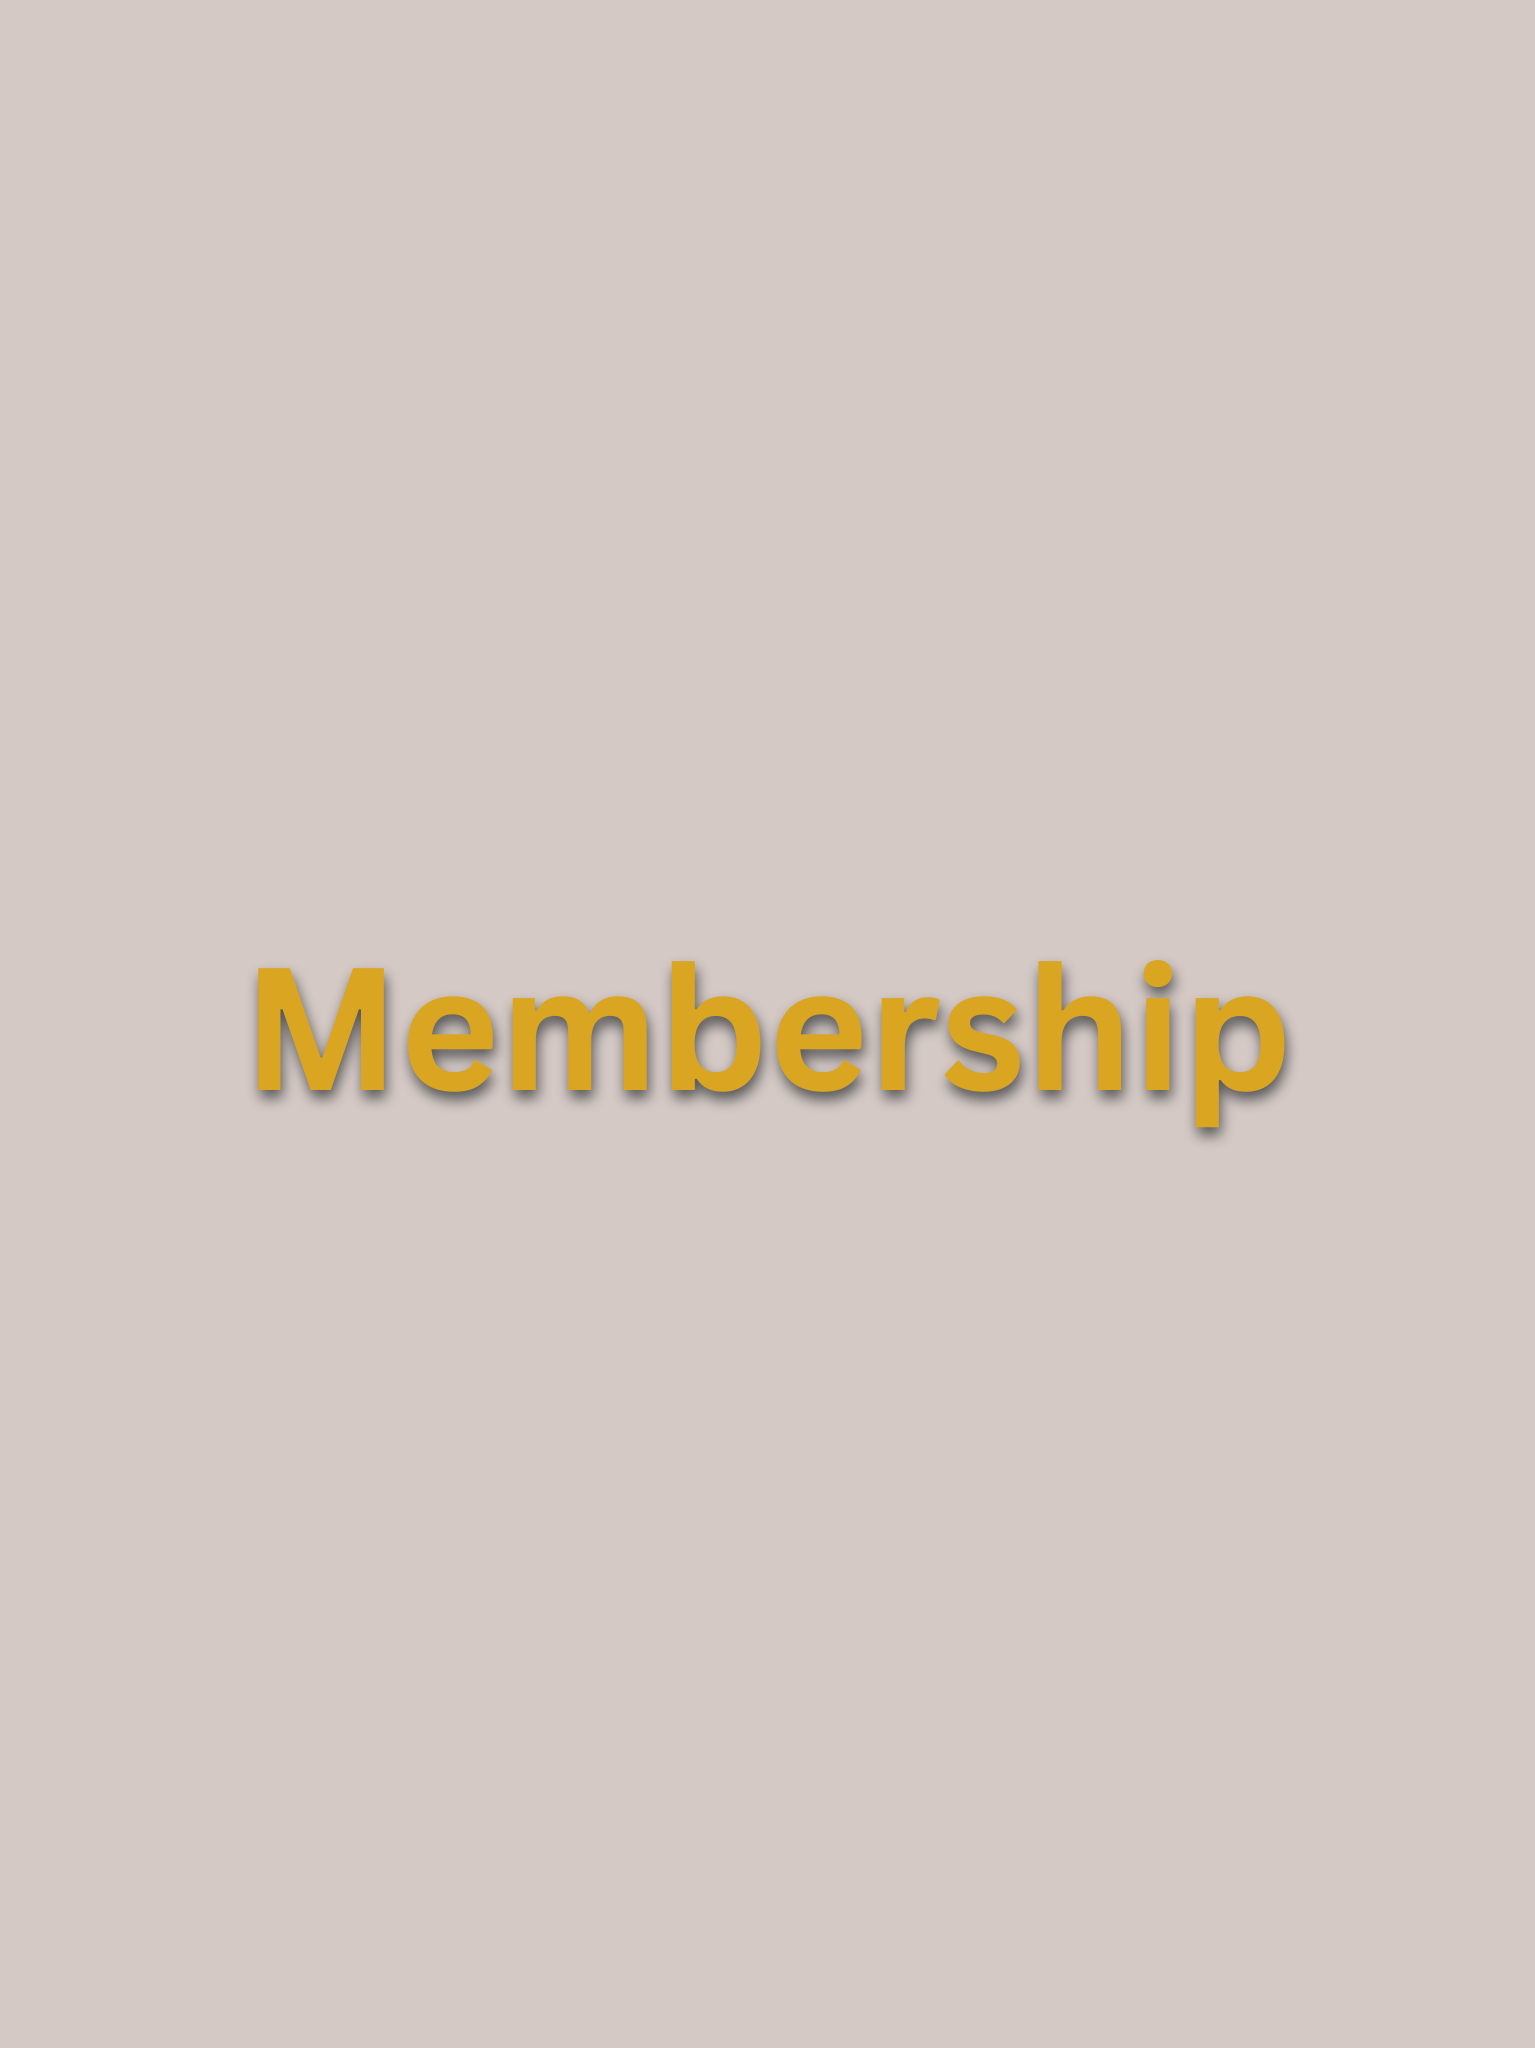
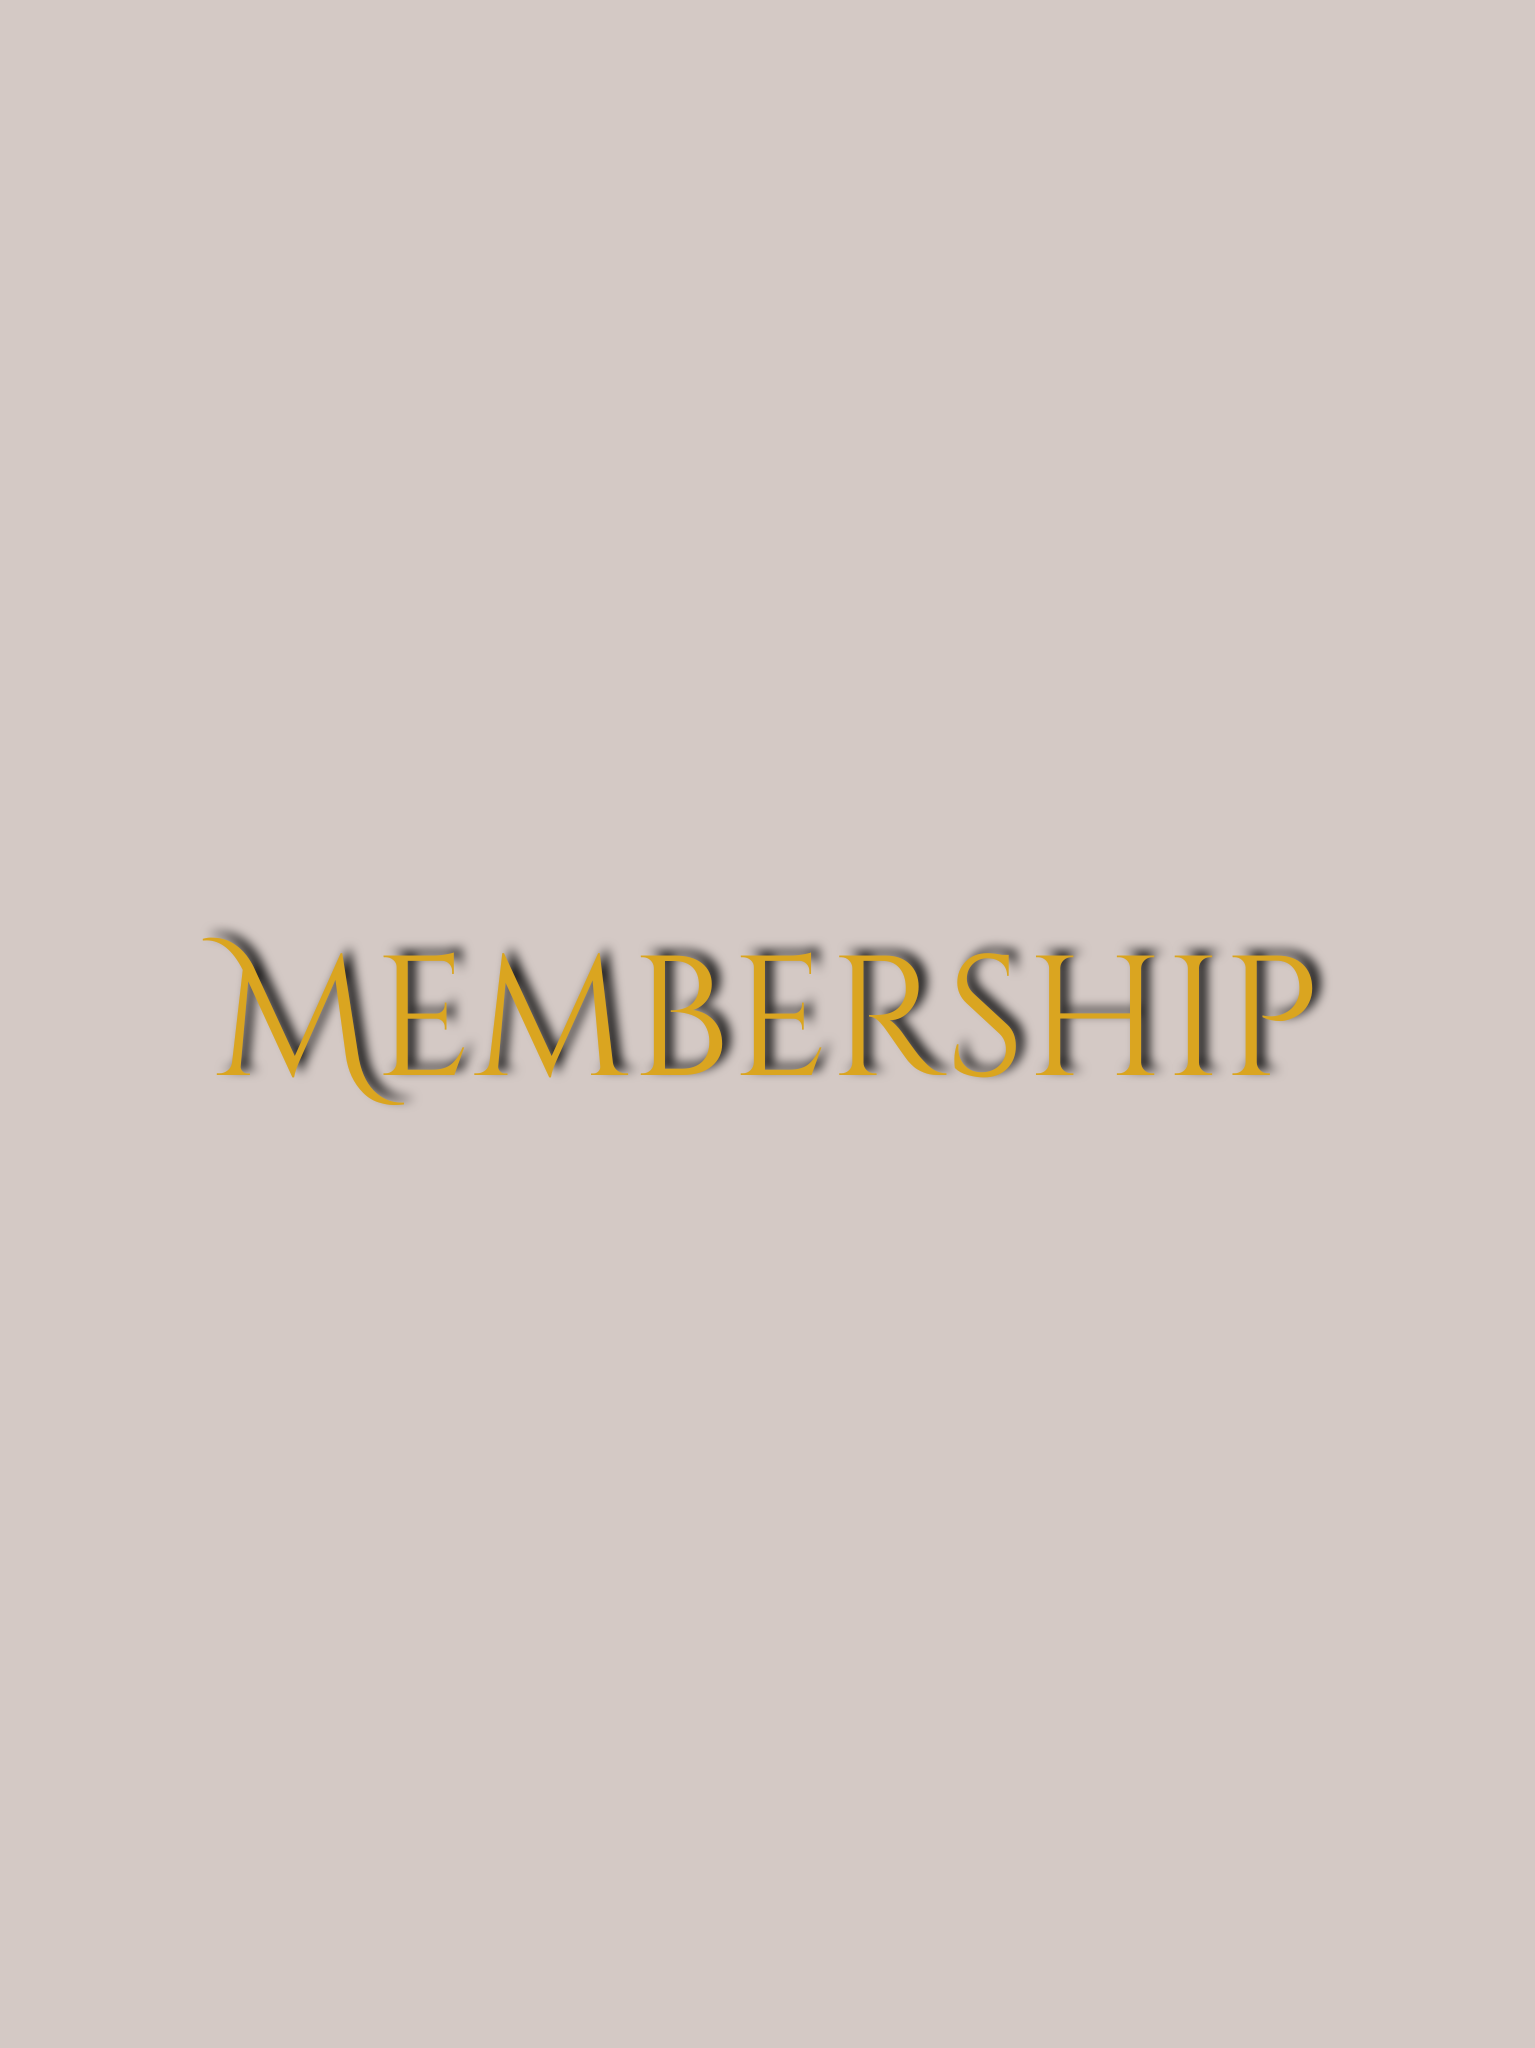
Removed articles and events from the navbar, updated the membership product's photo, defined a view and url to render a frame for membership.html

Changed region(s): [[0.1225, 0.4375, 0.8879, 0.5625]]

diff --git a/templates/includes/main-nav.html b/templates/includes/main-nav.html
@@ -107,37 +107,21 @@
     <li class="nav-item dropdown">
       <a
         class="banner-font font-weight-bold nav-link text-black mr-5"
-        href="#"
-        id="about-link"
-        data-toggle="dropdown"
-        aria-haspopup="true"
-        aria-expanded="false"
+        href="{% url 'us' %}"
       >
-        About
+        About Us
       </a>
-      <div class="dropdown-menu border-0" aria-labelledby="about-link">
-        <a href="{% url 'us' %}" class="dropdown-item">Us</a>
-        <a href="" class="dropdown-item">Events</a>
-        <a href="" class="dropdown-item">Articles</a>
-      </div>
     </li>
 
     <li class="nav-item dropdown">
       <a
-        class="banner-font font-weight-bold nav-link text-black"
-        href="#"
-        id="membership-link"
-        data-toggle="dropdown"
-        aria-haspopup="true"
-        aria-expanded="false"
+        class="banner-font font-weight-bold nav-link text-black mr-5"
+        href="{% url 'app_membership_view' %}"
       >
         Membership
       </a>
-      <div class="dropdown-menu border-0" aria-labelledby="membership-link">
-        <a href="" class="dropdown-item">Membership</a>
-        <a href="" class="dropdown-item">VIP</a>
-      </div>
     </li>
+
     <li class="nav-item dropdown">
       <a
         class="banner-font font-weight-bold nav-link text-black mr-5"

diff --git a/membership/templates/membership.html b/membership/templates/membership.html
@@ -1,0 +1,32 @@
+{% extends "base.html" %} {% load static %} {% block page_header %}
+<div class="container header-container">
+    <div class="row">
+        <div class="col"></div>
+    </div>
+</div>
+{% endblock %} {% block content %}
+<div class="overlay"></div>
+<div class="container-fluid mt-2">
+    <div class="row">
+        <div class="col-12 col-md-6 col-lg-4 offset-lg-1 p_image_padding">
+            <div class="image-container my-5">
+                <img src="{{ MEDIA_URL }}membership.png" alt="Membership Card" class="img-fluid" />
+            </div>
+        </div>
+        <div class="col-md-6">
+            <div class="product-details-container mb-5 mt-5">
+                <h2 class="mb-4 mt-5 product_name">EarthAlchemy Naturals Membership</h2>
+                <div class="mb-2">
+                    <div class="membership">
+                        <strong>Description:</strong> {{ member_product.description }}
+                    </div>
+                    <div class="membership mt-5">
+                        <strong>Price:</strong> €{{ member_product.price }}
+                    </div>
+                </div>                
+            </div>
+        </div>
+    </div>
+</div>
+{% endblock %}
+</div>

diff --git a/membership/views.py b/membership/views.py
@@ -1,12 +1,24 @@
 from django.shortcuts import render
 from .models import VIPBox
 from django.contrib.auth.decorators import login_required
+from products.models import Product
 
-# Create your views here.
+
+def membership_view(request):
+    # Fetch the membersip product with SKU 'member100'
+    member_product = Product.objects.filter(sku='member100').first()
+
+    context = {
+        'member_product': member_product
+    }
+
+    return render(request, 'membership.html', context)
 
 
 @login_required
 def create_vip_box(request):
+    context = {}
+
     if request.method == 'POST':
         selected_packaging_color = request.POST.get('selected_packaging_color')
         user = request.user
@@ -26,4 +38,6 @@ def create_vip_box(request):
 
         return redirect('profile')
     else:
+        context['user'] = request.user
+
         return render(request, 'profile', context)

diff --git a/membership/urls.py b/membership/urls.py
@@ -1,7 +1,9 @@
+from django.contrib import admin
 from django.urls import path
 from . import views
 
 urlpatterns = [
     path('', views.create_vip_box,
          name='create_vip_box'),
+    path('membership/', views.membership_view, name='app_membership_view')
 ]
